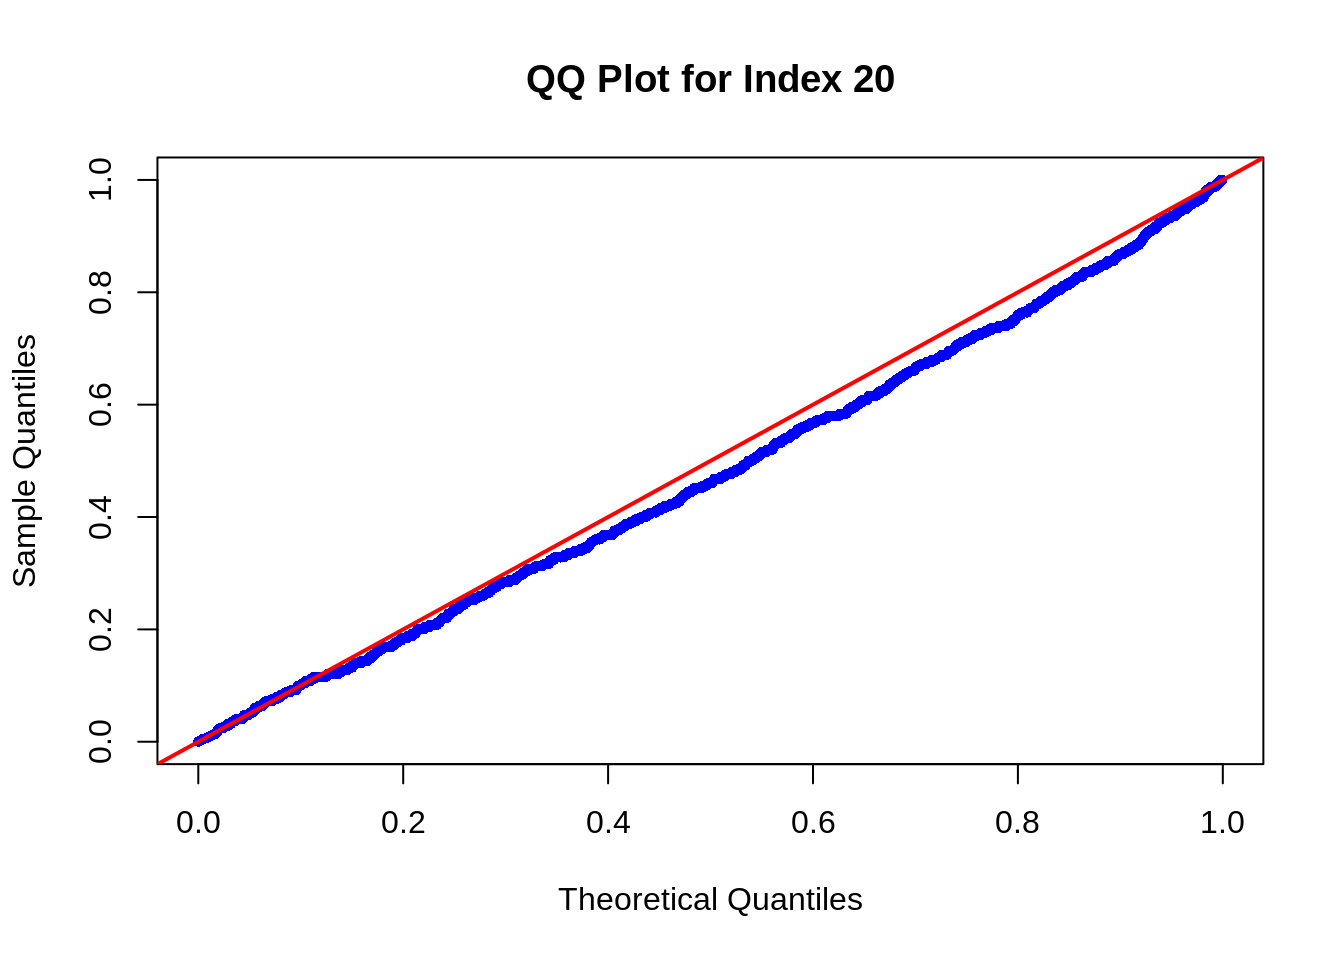
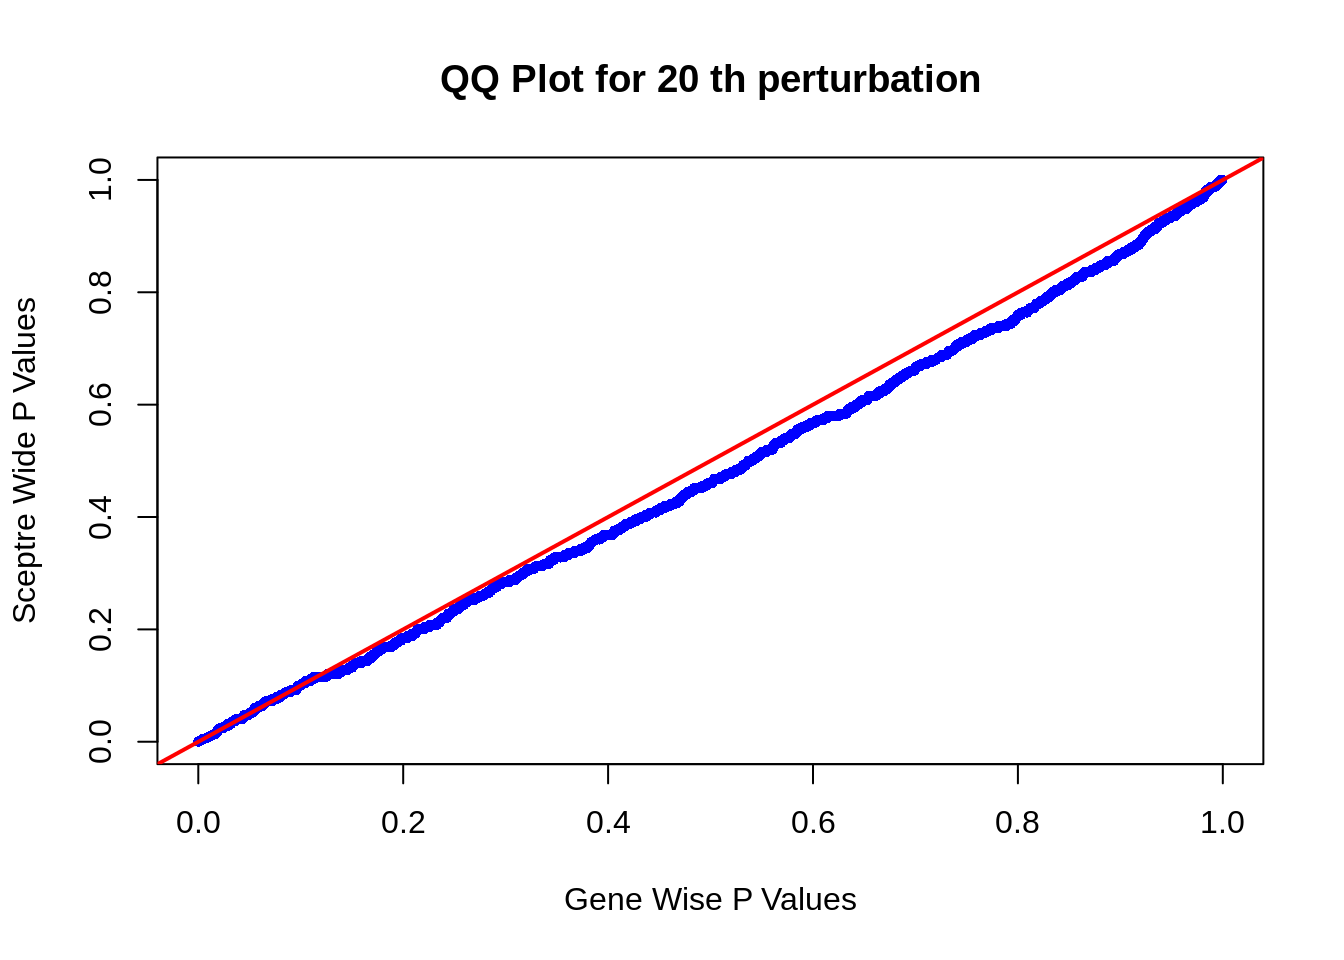
Build site.

Changed region(s): [[0.3125, 0.0625, 0.75, 0.125], [0.4062, 0.9062, 0.6562, 0.9688], [0.0, 0.3125, 0.0312, 0.6562]]

diff --git a/docs/debug.html b/docs/debug.html
@@ -580,16 +580,16 @@ output/both_trans_author_threshold_0.05_2/results_run_calibration_check.rds
 <div class="panel panel-default">
 <div class="panel-heading">
 <p class="panel-title">
-<a data-toggle="collapse" data-parent="#workflowr-checks" href="#strongRepositoryversionstrongahrefhttpsgithubcomjliucxsceptretree2b98c6c4cd346db6b8f6195f7fd3e850c4245c7etargetblank2b98c6ca"> <span class="glyphicon glyphicon-ok text-success" aria-hidden="true"></span> <strong>Repository version:</strong> <a href="https://github.com/jliucx/sceptre/tree/2b98c6c4cd346db6b8f6195f7fd3e850c4245c7e" target="_blank">2b98c6c</a> </a>
+<a data-toggle="collapse" data-parent="#workflowr-checks" href="#strongRepositoryversionstrongahrefhttpsgithubcomjliucxsceptretree4b95ed14dc1a15437252c30c012b7551513261cbtargetblank4b95ed1a"> <span class="glyphicon glyphicon-ok text-success" aria-hidden="true"></span> <strong>Repository version:</strong> <a href="https://github.com/jliucx/sceptre/tree/4b95ed14dc1a15437252c30c012b7551513261cb" target="_blank">4b95ed1</a> </a>
 </p>
 </div>
[2 lines of base64/hex data omitted]
 <div class="panel-body">
 <p>
 Great! You are using Git for version control. Tracking code development and connecting the code version to the results is critical for reproducibility.
 </p>
 <p>
-The results in this page were generated with repository version <a href="https://github.com/jliucx/sceptre/tree/2b98c6c4cd346db6b8f6195f7fd3e850c4245c7e" target="_blank">2b98c6c</a>. See the <em>Past versions</em> tab to see a history of the changes made to the R Markdown and HTML files.
+The results in this page were generated with repository version <a href="https://github.com/jliucx/sceptre/tree/4b95ed14dc1a15437252c30c012b7551513261cb" target="_blank">4b95ed1</a>. See the <em>Past versions</em> tab to see a history of the changes made to the R Markdown and HTML files.
 </p>
 <p>
 Note that you need to be careful to ensure that all relevant files for the analysis have been committed to Git prior to generating the results (you can use <code>wflow_publish</code> or <code>wflow_git_commit</code>). workflowr only checks the R Markdown file, but you know if there are other scripts or data files that it depends on. Below is the status of the Git repository when the results were generated:
@@ -697,6 +697,40 @@ Message
 </tr>
 </thead>
 <tbody>
+<tr>
+<td>
+Rmd
+</td>
+<td>
+<a href="https://github.com/jliucx/sceptre/blob/4b95ed14dc1a15437252c30c012b7551513261cb/analysis/debug.Rmd" target="_blank">4b95ed1</a>
+</td>
+<td>
+jliucx
+</td>
+<td>
+2024-12-06
+</td>
+<td>
+add more comparison
+</td>
+</tr>
+<tr>
+<td>
+html
+</td>
+<td>
+<a href="https://rawcdn.githack.com/jliucx/sceptre/986bb0f6ba4e11fef2920356185de645246d969d/docs/debug.html" target="_blank">986bb0f</a>
+</td>
+<td>
+jliucx
+</td>
+<td>
+2024-12-06
+</td>
+<td>
+Build site.
+</td>
+</tr>
 <tr>
 <td>
 Rmd
@@ -1742,7 +1776,7 @@ for (index in indices) {
     filtered_vector1, filtered_vector2,
     xlab = &quot;Gene Wise P Values&quot;,
     ylab = &quot;Sceptre Wide P Values&quot;,
-    main = paste0(&quot;Scatter Plot for Index &quot;, index),
+    main = paste0(&quot;Scatter Plot for &quot;, index, &quot; th perturbation&quot;),
     pch = 16,
     col = &quot;blue&quot;,
     cex = 0.7
@@ -1754,9 +1788,9 @@ for (index in indices) {
   # QQ Plot
   qqplot(
     filtered_vector1, filtered_vector2,
-    xlab = &quot;Theoretical Quantiles&quot;,
-    ylab = &quot;Sample Quantiles&quot;,
-    main = paste0(&quot;QQ Plot for Index &quot;, index),
+    xlab = &quot;Gene Wise P Values&quot;,
+    ylab = &quot;Sceptre Wide P Values&quot;,
+    main = paste0(&quot;QQ Plot for &quot;, index, &quot; th perturbation&quot;),
     pch = 16,
     col = &quot;blue&quot;,
     cex = 0.7
@@ -3257,6 +3291,17 @@ Date
 <tbody>
 <tr>
 <td>
+<a href="https://github.com/jliucx/sceptre/blob/986bb0f6ba4e11fef2920356185de645246d969d/docs/figure/debug.Rmd/unnamed-chunk-34-1.png" target="_blank">986bb0f</a>
+</td>
+<td>
+jliucx
+</td>
+<td>
+2024-12-06
+</td>
+</tr>
+<tr>
+<td>
 <a href="https://github.com/jliucx/sceptre/blob/8974f0542c11a9283c4fe313551d6d9d7f8746fd/docs/figure/debug.Rmd/unnamed-chunk-34-1.png" target="_blank">8974f05</a>
 </td>
 <td>
@@ -3272,7 +3317,161 @@ jliucx
 </div>
 <pre><code>Warning in colSums(id &amp; !empty) == 0 | merged_sets: longer object length is not
 a multiple of shorter object length</code></pre>
-<p><img src="figure/debug.Rmd/unnamed-chunk-34-2.png" width="672" style="display: block; margin: auto;" /><img src="figure/debug.Rmd/unnamed-chunk-34-3.png" width="672" style="display: block; margin: auto;" /><img src="figure/debug.Rmd/unnamed-chunk-34-4.png" width="672" style="display: block; margin: auto;" /><img src="figure/debug.Rmd/unnamed-chunk-34-5.png" width="672" style="display: block; margin: auto;" /> # Calibration check</p>
+<p><img src="figure/debug.Rmd/unnamed-chunk-34-2.png" width="672" style="display: block; margin: auto;" /></p>
+<p>
+<button type="button" class="btn btn-default btn-xs btn-workflowr btn-workflowr-fig" data-toggle="collapse" data-target="#fig-unnamed-chunk-34-2">
+Past versions of unnamed-chunk-34-2.png
+</button>
+</p>
+<div id="fig-unnamed-chunk-34-2" class="collapse">
+<div class="table-responsive">
+<table class="table table-condensed table-hover">
+<thead>
+<tr>
+<th>
+Version
+</th>
+<th>
+Author
+</th>
+<th>
+Date
+</th>
+</tr>
+</thead>
+<tbody>
+<tr>
+<td>
+<a href="https://github.com/jliucx/sceptre/blob/986bb0f6ba4e11fef2920356185de645246d969d/docs/figure/debug.Rmd/unnamed-chunk-34-2.png" target="_blank">986bb0f</a>
+</td>
+<td>
+jliucx
+</td>
+<td>
+2024-12-06
+</td>
+</tr>
+</tbody>
+</table>
+</div>
+</div>
+<p><img src="figure/debug.Rmd/unnamed-chunk-34-3.png" width="672" style="display: block; margin: auto;" /></p>
+<p>
+<button type="button" class="btn btn-default btn-xs btn-workflowr btn-workflowr-fig" data-toggle="collapse" data-target="#fig-unnamed-chunk-34-3">
+Past versions of unnamed-chunk-34-3.png
+</button>
+</p>
+<div id="fig-unnamed-chunk-34-3" class="collapse">
+<div class="table-responsive">
+<table class="table table-condensed table-hover">
+<thead>
+<tr>
+<th>
+Version
+</th>
+<th>
+Author
+</th>
+<th>
+Date
+</th>
+</tr>
+</thead>
+<tbody>
+<tr>
+<td>
+<a href="https://github.com/jliucx/sceptre/blob/986bb0f6ba4e11fef2920356185de645246d969d/docs/figure/debug.Rmd/unnamed-chunk-34-3.png" target="_blank">986bb0f</a>
+</td>
+<td>
+jliucx
+</td>
+<td>
+2024-12-06
+</td>
+</tr>
+</tbody>
+</table>
+</div>
+</div>
+<p><img src="figure/debug.Rmd/unnamed-chunk-34-4.png" width="672" style="display: block; margin: auto;" /></p>
+<p>
+<button type="button" class="btn btn-default btn-xs btn-workflowr btn-workflowr-fig" data-toggle="collapse" data-target="#fig-unnamed-chunk-34-4">
+Past versions of unnamed-chunk-34-4.png
+</button>
+</p>
+<div id="fig-unnamed-chunk-34-4" class="collapse">
+<div class="table-responsive">
+<table class="table table-condensed table-hover">
+<thead>
+<tr>
+<th>
+Version
+</th>
+<th>
+Author
+</th>
+<th>
+Date
+</th>
+</tr>
+</thead>
+<tbody>
+<tr>
+<td>
+<a href="https://github.com/jliucx/sceptre/blob/986bb0f6ba4e11fef2920356185de645246d969d/docs/figure/debug.Rmd/unnamed-chunk-34-4.png" target="_blank">986bb0f</a>
+</td>
+<td>
+jliucx
+</td>
+<td>
+2024-12-06
+</td>
+</tr>
+</tbody>
+</table>
+</div>
+</div>
+<p><img src="figure/debug.Rmd/unnamed-chunk-34-5.png" width="672" style="display: block; margin: auto;" /></p>
+<p>
+<button type="button" class="btn btn-default btn-xs btn-workflowr btn-workflowr-fig" data-toggle="collapse" data-target="#fig-unnamed-chunk-34-5">
+Past versions of unnamed-chunk-34-5.png
+</button>
+</p>
+<div id="fig-unnamed-chunk-34-5" class="collapse">
+<div class="table-responsive">
+<table class="table table-condensed table-hover">
+<thead>
+<tr>
+<th>
+Version
+</th>
+<th>
+Author
+</th>
+<th>
+Date
+</th>
+</tr>
+</thead>
+<tbody>
+<tr>
+<td>
+<a href="https://github.com/jliucx/sceptre/blob/986bb0f6ba4e11fef2920356185de645246d969d/docs/figure/debug.Rmd/unnamed-chunk-34-5.png" target="_blank">986bb0f</a>
+</td>
+<td>
+jliucx
+</td>
+<td>
+2024-12-06
+</td>
+</tr>
+</tbody>
+</table>
+</div>
+</div>
+</div>
+<div id="calibration-check" class="section level1">
+<h1>Calibration check</h1>
 <pre class="r"><code>gg_qqplot &lt;- function(ps, ci = 0.95, title = &quot;QQ Plot&quot;) {
   n &lt;- length(ps)
   df &lt;- data.frame(
